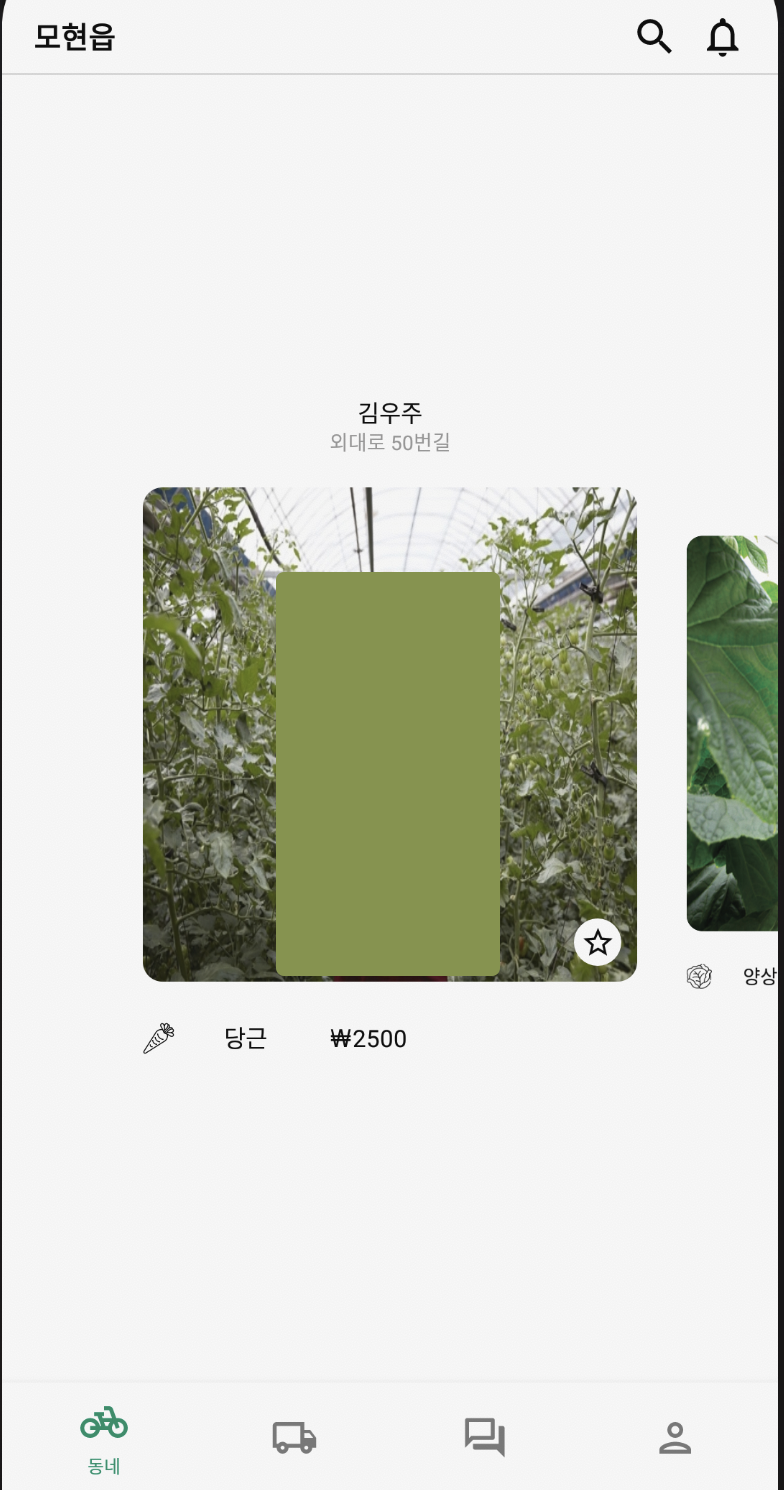
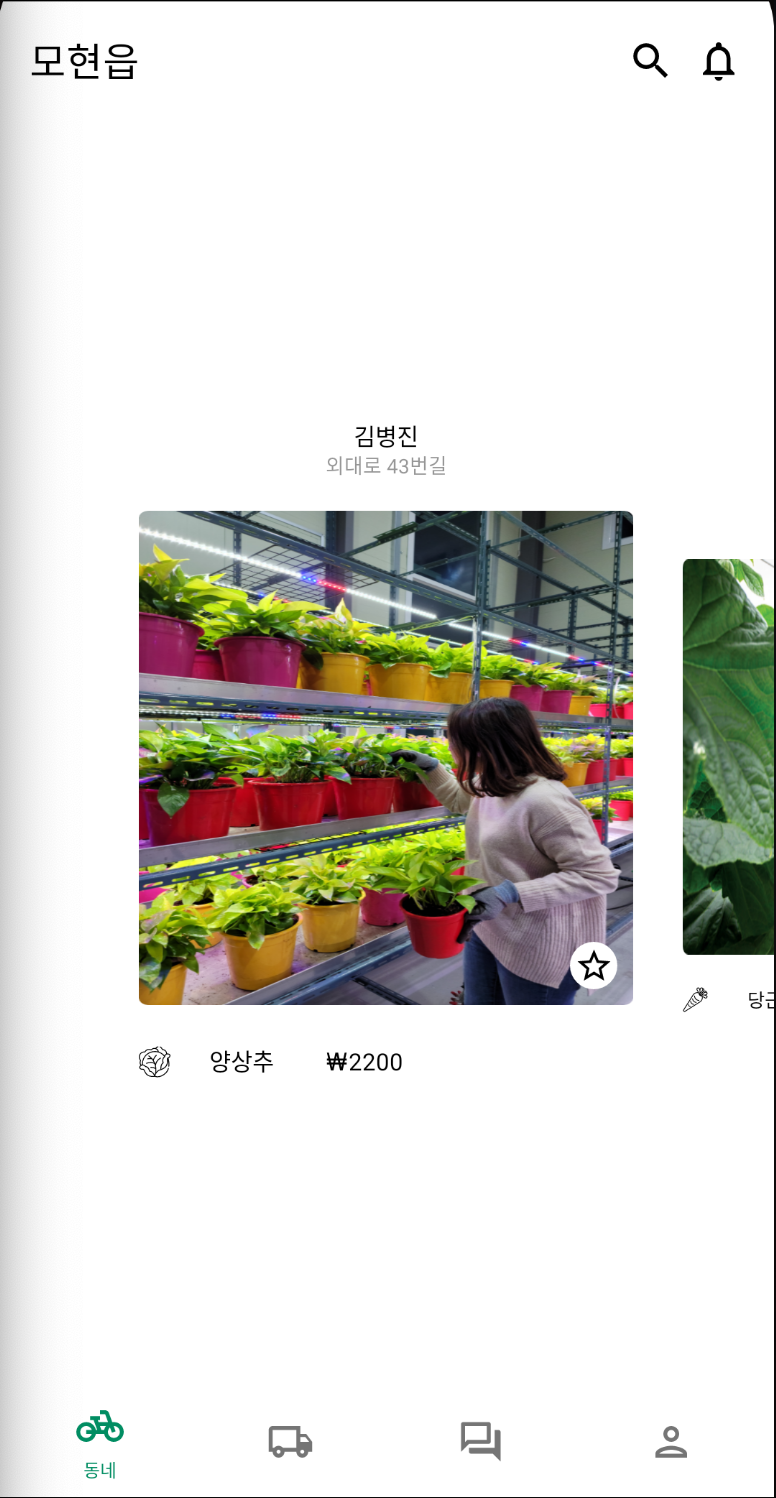
[Readme] Update README file and update some pics

diff --git a/README.md b/README.md
@@ -1,6 +1,10 @@
-# PlantPoint Android (developing..)
+# PlantPoint Android (On Beta Service)
 
 This application want to resolve the problem that farmer sell cheap and consumer buy expensive. In other words, This app made to decrease marketing cost. It offers chatting with farmers and consumer and then they buy and sell in person. Also, plan to make a online shopping service.
+
+<p align="center">
+  <img src="./image/intro.png" width="600" />
+</p>
 
 <br/>
 
@@ -35,8 +39,9 @@ Sign In and Log In Fragment. Chat service needs to be logged in.
 *  OFFLINE TRADE
 
 <p align="center">
-  <img src="./image/main.png" width="200" />
+  <img src="./image/product.png" width="400" />
 </p>
+
 
 It shows the farmers close to your location. if you click the farmer image, you can see the products detail farmer selling. If you push the star button, you can see the star collection in "my page".
 
@@ -45,15 +50,24 @@ It shows the farmers close to your location. if you click the farmer image, you 
 * CHAT
 
 <p align="center">
-  <img src="./image/chat.png" width="200"/>
+  <img src="./image/chat.png" width="400"/>
 </p>
+
 
 You can chat with farmers and make a deal or ask where we gonna meet. This data will be stored in Firestore.
 
 <br/>
 
+* ACCOUNT
+
+<p align="center">
+  <img src="./image/account.png" width="200"/>
+</p>
+
+Account shows list of farmers that you put a start, what you bought and sell. You can logout here.
+
 ## TODO LIST
 
 * Online Shopping
 * Payment
-* My page
+* Edit Profile
